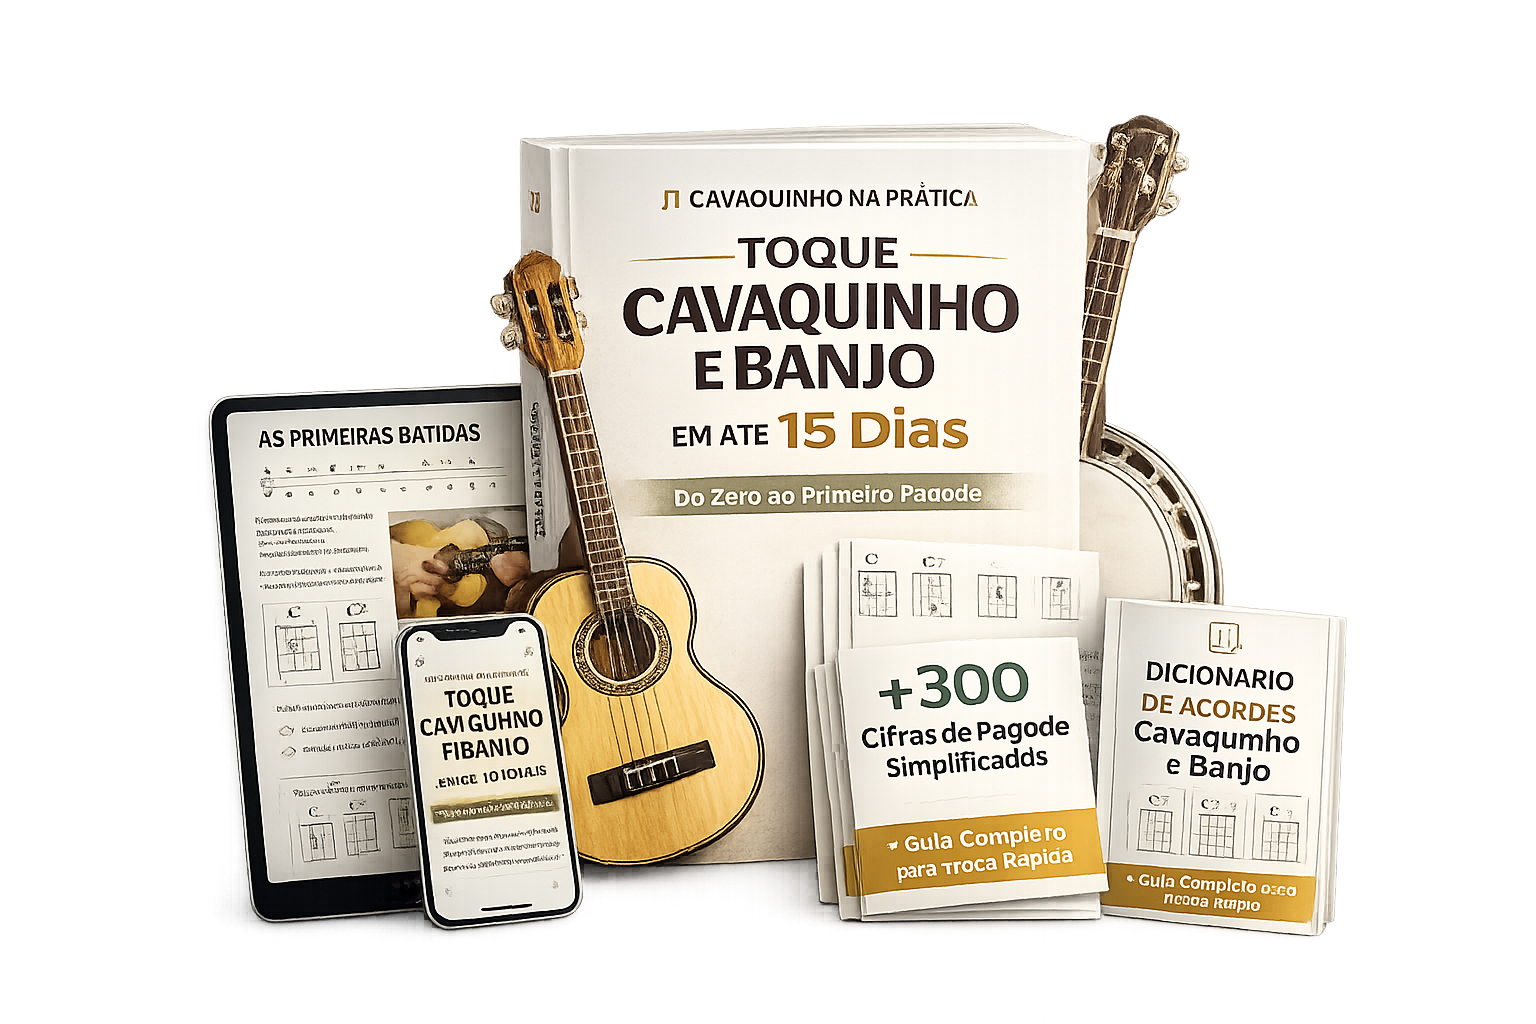
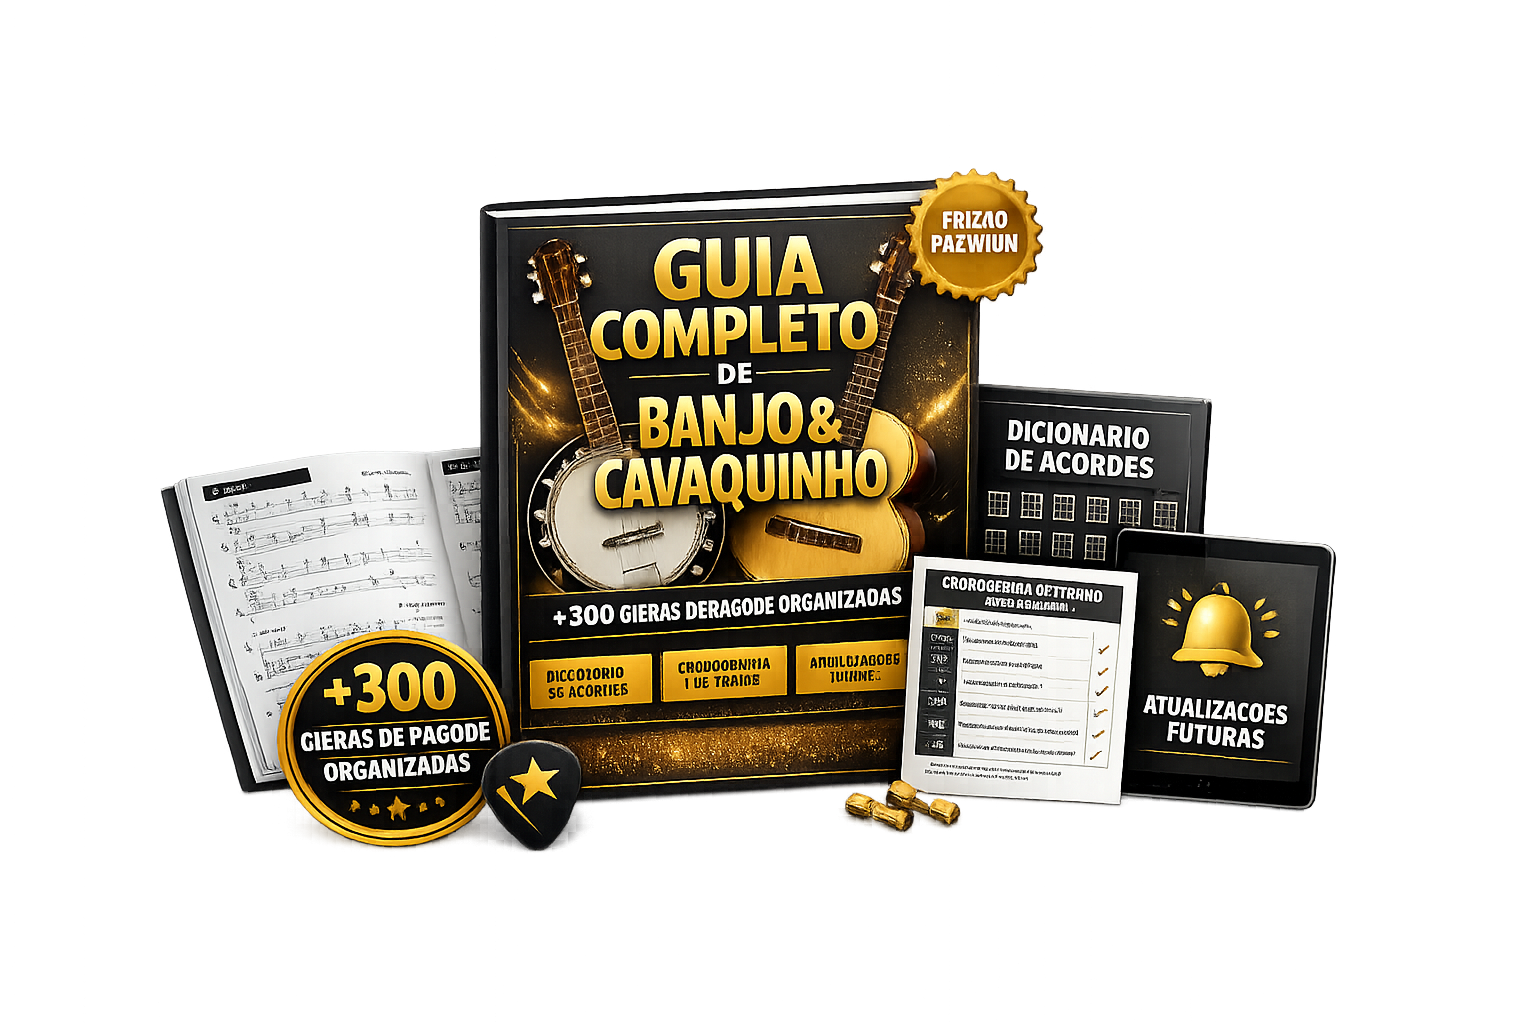
feat: update product mockups
Replace existing promotional mockups with updated visual assets.

diff --git a/src/components/TestimonialsSection.tsx b/src/components/TestimonialsSection.tsx
@@ -1,4 +1,6 @@
-import React from "react";
+import React, { useState } from "react";
+import { ChevronLeft, ChevronRight, MessageSquareQuote } from "lucide-react";
+import { motion, AnimatePresence } from "motion/react";
 
 export default function TestimonialsSection() {
   const testimonialImages = [
@@ -7,35 +9,105 @@ export default function TestimonialsSection() {
     { src: "/depoi3.png", alt: "Depoimento de Aluno 3" },
   ];
 
+  const [activeIndex, setActiveIndex] = useState(0);
+
+  const prevSlide = () => {
+    setActiveIndex((prev) => (prev === 0 ? testimonialImages.length - 1 : prev - 1));
+  };
+
+  const nextSlide = () => {
+    setActiveIndex((prev) => (prev === testimonialImages.length - 1 ? 0 : prev + 1));
+  };
+
   return (
-    <section id="testimonials-section" className="py-20 bg-neutral-50/50">
-      <div className="max-w-6xl mx-auto px-4 sm:px-6">
+    <section id="testimonials-section" className="py-20 bg-neutral-50/50 relative overflow-hidden">
+      {/* Decorative ambient background blur */}
+      <div className="absolute top-1/2 left-1/2 -translate-x-1/2 -translate-y-1/2 w-96 h-96 bg-emerald-500/5 rounded-full blur-3xl pointer-events-none"></div>
+
+      <div className="max-w-4xl mx-auto px-4 sm:px-6 relative z-10">
         
-        {/* Simple crisp header */}
-        <div className="text-center max-w-3xl mx-auto mb-16">
-          <h2 className="text-3xl font-display font-extrabold text-neutral-900 tracking-tight sm:text-4xl">
-            Veja o Que os Alunos Estão Dizendo
+        {/* Crisp design header */}
+        <div className="text-center max-w-2xl mx-auto mb-12 space-y-3">
+          <div className="inline-flex items-center gap-1.5 px-3 py-1 rounded-full bg-emerald-50 border border-emerald-100 text-emerald-700 text-xs font-black uppercase tracking-wider">
+            <MessageSquareQuote className="w-3.5 h-3.5" />
+            <span>Resultados Reais</span>
+          </div>
+          <h2 className="text-3xl font-display font-black text-neutral-900 tracking-tight sm:text-4xl">
+            Veja quem já está tocando!
           </h2>
-          <p className="mt-3 text-neutral-500 text-sm sm:text-base max-w-lg mx-auto leading-relaxed">
-            Resultados de quem realmente colocou o método em prática e aprendeu a jogar ou tocar em poucos dias.
+          <p className="text-neutral-500 text-xs sm:text-sm max-w-md mx-auto leading-relaxed">
+            Veja a evolução dos alunos que saíram do absoluto zero e hoje já dominam o ritmo nas rodas de samba e pagode.
           </p>
         </div>
 
-        {/* Testimonials Grid using provided images */}
-        <div className="grid grid-cols-1 md:grid-cols-3 gap-8">
-          {testimonialImages.map((item, idx) => (
-            <div
-              key={idx}
-              className="bg-white rounded-2xl shadow-md border border-neutral-100 overflow-hidden hover:scale-[1.02] hover:shadow-xl transition-all duration-350 select-none flex items-center justify-center"
-            >
-              <img
-                src={item.src}
-                alt={item.alt}
-                className="w-full h-auto object-contain rounded-2xl"
-                referrerPolicy="no-referrer"
-              />
+        {/* Carousel Container */}
+        <div className="relative max-w-md sm:max-w-lg mx-auto">
+          
+          {/* Main Card viewport */}
+          <div className="bg-white rounded-3xl border border-neutral-200/60 shadow-xl overflow-hidden p-3 sm:p-4 aspect-auto relative">
+            <div className="relative min-h-[350px] sm:min-h-[420px] flex items-center justify-center bg-neutral-50/50 rounded-2xl">
+              <AnimatePresence mode="wait">
+                <motion.div
+                  key={activeIndex}
+                  initial={{ opacity: 0, x: 25 }}
+                  animate={{ opacity: 1, x: 0 }}
+                  exit={{ opacity: 0, x: -25 }}
+                  transition={{ duration: 0.25, ease: "easeInOut" }}
+                  className="w-full h-full flex items-center justify-center p-2 select-none"
+                >
+                  <img
+                    src={testimonialImages[activeIndex].src}
+                    alt={testimonialImages[activeIndex].alt}
+                    className="max-h-[380px] sm:max-h-[450px] w-auto h-auto object-contain rounded-xl"
+                    referrerPolicy="no-referrer"
+                  />
+                </motion.div>
+              </AnimatePresence>
             </div>
-          ))}
+          </div>
+
+          {/* Navigation Controls (Floating Arrows for desktop, responsive and highly accessible targets) */}
+          <div className="absolute top-1/2 -translate-y-1/2 -left-4 sm:-left-16 z-20">
+            <button
+              onClick={prevSlide}
+              aria-label="Depoimento Anterior"
+              className="w-11 h-11 sm:w-12 sm:h-12 rounded-full bg-white border border-neutral-200 shadow-md flex items-center justify-center text-neutral-700 hover:text-emerald-600 hover:border-emerald-300 hover:scale-105 active:scale-95 transition-all duration-200 cursor-pointer focus:outline-none"
+            >
+              <ChevronLeft className="w-5 h-5 sm:w-6 sm:h-6 stroke-[2.5]" />
+            </button>
+          </div>
+
+          <div className="absolute top-1/2 -translate-y-1/2 -right-4 sm:-right-16 z-20">
+            <button
+              onClick={nextSlide}
+              aria-label="Próximo Depoimento"
+              className="w-11 h-11 sm:w-12 sm:h-12 rounded-full bg-white border border-neutral-200 shadow-md flex items-center justify-center text-neutral-700 hover:text-emerald-600 hover:border-emerald-300 hover:scale-105 active:scale-95 transition-all duration-200 cursor-pointer focus:outline-none"
+            >
+              <ChevronRight className="w-5 h-5 sm:w-6 sm:h-6 stroke-[2.5]" />
+            </button>
+          </div>
+
+        </div>
+
+        {/* Dot Indicators & Slide Count */}
+        <div className="flex flex-col items-center justify-center gap-3 mt-8 select-none">
+          <div className="flex items-center gap-2">
+            {testimonialImages.map((_, idx) => (
+              <button
+                key={idx}
+                onClick={() => setActiveIndex(idx)}
+                aria-label={`Ir para depoimento ${idx + 1}`}
+                className={`transition-all duration-300 rounded-full cursor-pointer focus:outline-none ${
+                  activeIndex === idx
+                    ? "w-6 h-2 bg-emerald-500"
+                    : "w-2 h-2 bg-neutral-300 hover:bg-neutral-400"
+                }`}
+              />
+            ))}
+          </div>
+          <span className="text-[11px] font-bold text-neutral-400 uppercase tracking-widest">
+            Depoimento {activeIndex + 1} de {testimonialImages.length}
+          </span>
         </div>
 
       </div>

diff --git a/src/components/OfferSection.tsx b/src/components/OfferSection.tsx
@@ -1,6 +1,10 @@
 import React from "react";
 import { Check, ShieldCheck, Lock, Zap } from "lucide-react";
 
+// Import premium bundle mockup automatically compiled by Vite
+// @ts-ignore
+import bundleMockup from "../assets/images/bundle_mockup_1781461284286.jpg";
+
 export default function OfferSection() {
   const items = [
     { isBonus: false, text: "Guia Completo de Cavaquinho" },
@@ -12,43 +16,53 @@ export default function OfferSection() {
   ];
 
   return (
-    <section id="offer-section" className="py-16 bg-[#FAFAFA] px-4 relative overflow-hidden border-t border-neutral-150/60">
+    <section id="offer-section" className="py-12 bg-[#FAFAFA] px-4 relative overflow-hidden border-t border-neutral-150/60 select-none">
       
       {/* Subtle decorative background glow */}
       <div className="absolute top-1/2 left-1/2 -translate-x-1/2 -translate-y-1/2 w-80 h-80 bg-emerald-500/5 rounded-full blur-3xl pointer-events-none"></div>
 
-      <div className="max-w-lg mx-auto relative z-10">
+      <div className="max-w-md mx-auto relative z-10">
         
         {/* SINGLE INTEGRATED CONTAINER */}
-        <div className="bg-white rounded-3xl border border-neutral-200 shadow-xl overflow-hidden p-6 sm:p-8 space-y-6">
+        <div className="bg-white rounded-3xl border border-neutral-200 shadow-xl overflow-hidden p-5 sm:p-6 space-y-4">
           
           {/* TITLE HEADER */}
-          <div className="text-center pb-1 border-b border-neutral-100 select-none">
-            <span className="text-xs font-black text-emerald-700 bg-emerald-50 px-3 py-1.5 rounded-full uppercase tracking-wider mb-3 inline-block">
-              Acesso Vitalício
-            </span>
-            <h2 className="text-xl sm:text-2xl font-display font-black text-neutral-900 tracking-tight flex items-center justify-center gap-2">
+          <div className="text-center pb-1">
+            <h2 className="text-lg sm:text-xl font-display font-black text-neutral-900 tracking-tight flex items-center justify-center gap-2">
               <span>🎁</span> VOCÊ RECEBERÁ HOJE:
             </h2>
           </div>
 
+          {/* LARGE MAIN PREMIUM BUNDLE SHOWCASE */}
+          <div className="relative group/offerMockup w-full flex items-center justify-center py-1">
+            <div className="absolute -inset-1 bg-gradient-to-r from-emerald-500/10 to-teal-500/5 rounded-2xl blur opacity-75 group-hover/offerMockup:opacity-100 transition-all duration-300"></div>
+            <div className="relative bg-white border border-neutral-100 shadow-sm rounded-2xl overflow-hidden p-1.5 transition-all duration-350 max-w-[240px]">
+              <img
+                src={bundleMockup}
+                alt="Pacote Completo Cavaquinho e Banjo"
+                className="w-full object-contain mix-blend-multiply rounded-xl transition-transform hover:scale-[1.02]"
+                referrerPolicy="no-referrer"
+              />
+            </div>
+          </div>
+
           {/* COMPACT UNIFIED CHECKLIST */}
-          <div className="bg-[#FAFAFA] border border-neutral-150 rounded-2xl p-4 sm:p-5 space-y-3.5">
+          <div className="bg-[#FAFAFA] border border-neutral-150 rounded-2xl p-3.5 space-y-3">
             {items.map((item, idx) => (
-              <div key={idx} className="flex items-start gap-3">
+              <div key={idx} className="flex items-start gap-2.5">
                 <div className="flex-shrink-0 mt-0.5">
                   {item.isBonus ? (
                     <span className="text-sm select-none">🎁</span>
                   ) : (
-                    <div className="w-5 h-5 rounded-full bg-emerald-100 flex items-center justify-center text-[#22C55E]">
-                      <Check className="w-3.5 h-3.5 stroke-[3]" />
+                    <div className="w-4.5 h-4.5 rounded-full bg-emerald-100 flex items-center justify-center text-[#22C55E]">
+                      <Check className="w-3 h-3 stroke-[3]" />
                     </div>
                   )}
                 </div>
                 <div className="flex flex-wrap items-center gap-1.5 text-xs sm:text-sm text-neutral-800 font-extrabold leading-tight">
                   <span className="tracking-tight">{item.text}</span>
                   {item.isBonus && (
-                    <span className="inline-flex items-center px-2 py-0.5 rounded-md bg-emerald-50 border border-emerald-200 text-emerald-700 text-[9px] font-black uppercase tracking-wider select-none">
+                    <span className="inline-flex items-center px-1.5 py-0.5 rounded-md bg-emerald-50 border border-emerald-200 text-emerald-700 text-[8px] font-black uppercase tracking-wider select-none">
                       BÔNUS
                     </span>
                   )}
@@ -57,57 +71,53 @@ export default function OfferSection() {
             ))}
           </div>
 
-          {/* CAIXA DE VALOR DESTACADA */}
-          <div className="p-5 bg-emerald-50/30 border-2 border-emerald-500/25 rounded-2xl text-center space-y-2 relative overflow-hidden select-none">
-            <div className="absolute top-0 right-0 w-16 h-16 bg-emerald-500/10 rounded-full blur-xl pointer-events-none"></div>
+          {/* CAIXA DE VALOR DESTACADA COMPACTA */}
+          <div className="p-4 bg-gradient-to-br from-[#FAFAFA] to-white border border-emerald-500/20 rounded-2xl text-center space-y-1.5 relative overflow-hidden shadow-sm">
+            <div className="absolute top-0 right-0 w-16 h-16 bg-emerald-500/5 rounded-full blur-xl pointer-events-none"></div>
             
-            <p className="text-xs sm:text-sm font-extrabold text-emerald-800 flex items-center justify-center gap-1.5 uppercase tracking-wider">
-              <span>💰</span> Valor Total do Pacote
+            <p className="text-xs font-extrabold text-neutral-500 flex items-center justify-center gap-1">
+              💰 Valor Total: <span className="line-through text-neutral-400">R$ 97,00</span>
             </p>
 
-            <div className="text-sm text-neutral-400 font-semibold">
-              De: <span className="line-through">R$ 97,00</span>
-            </div>
-
             <div className="space-y-0.5">
-              <p className="text-[10px] text-neutral-500 font-black uppercase tracking-wider">Por apenas:</p>
-              <div className="flex items-baseline justify-center gap-1">
-                <span className="text-xl font-extrabold text-[#22C55E]">R$</span>
-                <span className="text-4xl sm:text-5.5xl font-display font-black text-[#22C55E] tracking-tight">27,00</span>
+              <p className="text-[10px] text-emerald-700 font-black uppercase tracking-widest leading-none">por apenas</p>
+              <div className="flex items-baseline justify-center gap-0.5">
+                <span className="text-lg font-extrabold text-[#22C55E] self-start mt-0.5">R$</span>
+                <span className="text-4xl font-display font-black text-neutral-900 tracking-tight">27,00</span>
               </div>
             </div>
 
-            <div className="text-[11px] font-black text-emerald-700 bg-emerald-100/60 inline-block px-3 py-1 rounded-full uppercase tracking-wider">
-              🔥 Você economiza R$ 70,00 hoje
-            </div>
-          </div>
-
-          {/* ELEMENTOS DE CONFIANÇA */}
-          <div className="grid grid-cols-3 gap-1 pt-1.5 text-center text-[10px] font-extrabold text-neutral-600 uppercase tracking-widest border-t border-b border-neutral-100 py-3.5">
-            <div className="flex flex-col items-center gap-1 justify-center">
-              <Lock className="w-4 h-4 text-[#22C55E]" />
-              <span>Compra 100% Segura</span>
-            </div>
-            <div className="flex flex-col items-center gap-1 justify-center border-l border-r border-neutral-150">
-              <Zap className="w-4 h-4 text-[#22C55E] fill-current" />
-              <span>Acesso Imediato</span>
-            </div>
-            <div className="flex flex-col items-center gap-1 justify-center">
-              <ShieldCheck className="w-4 h-4 text-[#22C55E]" />
-              <span>Garantia de 7 Dias</span>
+            <div className="text-[10px] font-black text-emerald-750 bg-emerald-50 border border-emerald-100 inline-block px-2.5 py-1 rounded-md uppercase tracking-wider">
+              🔥 Economize R$ 70,00 Hoje
             </div>
           </div>
 
           {/* BOTÃO CTA PRINCIPAL */}
-          <div className="space-y-3">
+          <div className="space-y-3 pt-1">
             <a
               href="https://pay.wiapy.com/3YueGcEdrf"
-              className="w-full py-5 px-6 bg-emerald-500 hover:bg-emerald-600 text-white font-black rounded-2xl text-center shadow-xl shadow-emerald-500/20 hover:shadow-emerald-500/30 hover:scale-[1.025] active:scale-[0.985] transition-all duration-250 cursor-pointer text-sm sm:text-base uppercase tracking-wider block"
+              className="w-full py-4 px-4 bg-emerald-500 hover:bg-emerald-600 text-white font-black rounded-2xl text-center shadow-lg shadow-emerald-500/20 hover:shadow-emerald-500/30 hover:scale-[1.02] active:scale-[0.985] transition-all duration-200 cursor-pointer text-xs sm:text-sm uppercase tracking-wider block leading-tight border border-emerald-400"
             >
-              🚀 GARANTIR MEU ACESSO AGORA
+              🚀 QUERO APRENDER CAVAQUINHO E BANJO AGORA
             </a>
+
+            {/* ELEMENTOS DE CONFIANÇA INTEGRADOS DIRETAMENTE (COMPACT) */}
+            <div className="grid grid-cols-3 gap-1 pt-1.5 text-center text-[9px] font-extrabold text-neutral-500 uppercase tracking-wider border-t border-b border-neutral-100 py-2.5">
+              <div className="flex flex-col items-center gap-1 justify-center">
+                <Lock className="w-3.5 h-3.5 text-[#22C55E]" />
+                <span className="leading-tight">Compra 100% Segura</span>
+              </div>
+              <div className="flex flex-col items-center gap-1 justify-center border-l border-r border-neutral-150">
+                <Zap className="w-3.5 h-3.5 text-[#22C55E] fill-current" />
+                <span className="leading-tight">Acesso Imediato</span>
+              </div>
+              <div className="flex flex-col items-center gap-1 justify-center">
+                <ShieldCheck className="w-3.5 h-3.5 text-[#22C55E]" />
+                <span className="leading-tight">Garantia de 7 Dias</span>
+              </div>
+            </div>
             
-            <p className="text-[10px] text-neutral-400 text-center font-bold tracking-wide">
+            <p className="text-[9px] text-neutral-400 text-center font-bold tracking-wide">
               Pagamento único • Sem mensalidades ou taxas ocultas • Segurança criptografada
             </p>
           </div>

diff --git a/src/components/OQueVaiReceberSection.tsx b/src/components/OQueVaiReceberSection.tsx
@@ -6,45 +6,45 @@ export default function OQueVaiReceberSection() {
     {
       title: "Guia Completo de Cavaquinho",
       description: "Do absoluto zero às primeiras soltas de samba, com posturas corretas e trocas práticas.",
-      icon: <Music className="w-5 h-5 text-gold shrink-0 mt-0.5" />,
+      icon: <Music className="w-5 h-5 text-emerald-600 shrink-0" />,
     },
     {
       title: "Guia Completo de Banjo",
       description: "Aprenda a mecânica correta para obter o som metálico e marcante clássico do pagode.",
-      icon: <Disc className="w-5 h-5 text-gold shrink-0 mt-0.5" />,
+      icon: <Disc className="w-5 h-5 text-emerald-600 shrink-0" />,
     },
     {
       title: "+300 Cifras de Pagode Organizadas",
       description: "As músicas mais amadas tocadas nas rodas, com acordes simplificados para iniciantes.",
-      icon: <Layers className="w-5 h-5 text-gold shrink-0 mt-0.5" />,
+      icon: <Layers className="w-5 h-5 text-emerald-600 shrink-0" />,
       isBonus: true,
     },
     {
       title: "Dicionário de Acordes",
       description: "Consulte rapidamente todas as posições essenciais em um design limpo e ilustrado.",
-      icon: <BookOpen className="w-5 h-5 text-gold shrink-0 mt-0.5" />,
+      icon: <BookOpen className="w-5 h-5 text-emerald-600 shrink-0" />,
       isBonus: true,
     },
     {
       title: "Cronograma de Treino para Iniciantes",
       description: "Um passo a passo diário detalhado para você saber exatamente o que treinar a cada dia.",
-      icon: <CheckCircle className="w-5 h-5 text-gold shrink-0 mt-0.5" />,
+      icon: <CheckCircle className="w-5 h-5 text-emerald-600 shrink-0" />,
       isBonus: true,
     },
     {
       title: "Atualizações Futuras",
       description: "Tenha acesso vitalício a toda e qualquer melhoria ou material complementar futuro.",
-      icon: <Star className="w-5 h-5 text-gold shrink-0 mt-0.5" />,
+      icon: <Star className="w-5 h-5 text-emerald-600 shrink-0" />,
       isBonus: true,
     },
   ];
 
   return (
-    <section id="receive-section" className="py-20 bg-white px-4">
-      <div className="max-w-4xl mx-auto">
+    <section id="receive-section" className="py-16 bg-neutral-50/40 px-4 border-t border-b border-neutral-100 relative overflow-hidden">
+      <div className="max-w-5xl mx-auto space-y-12">
         
         {/* Simple Section Header */}
-        <div className="text-center max-w-3xl mx-auto mb-16 space-y-3">
+        <div className="text-center max-w-3xl mx-auto space-y-3">
           <h2 className="text-3xl font-display font-extrabold text-neutral-900 tracking-tight">
             O Que Você Vai Receber
           </h2>
@@ -56,22 +56,29 @@ export default function OQueVaiReceberSection() {
           </div>
         </div>
 
-        {/* Minimal list layout, 2 columns on desktop - extremely elegant */}
-        <div className="grid grid-cols-1 md:grid-cols-2 gap-x-12 gap-y-8 select-none">
+        {/* List of items styled as a clean/compact 2-column grid layout */}
+        <div className="grid grid-cols-1 md:grid-cols-2 gap-4 sm:gap-6 select-none">
           {items.map((item, idx) => (
-            <div key={idx} className="relative flex gap-4 items-start pb-6 border-b border-neutral-100/60 last:border-0 md:border-b group">
-              {item.icon}
-              <div className="space-y-1 pr-16">
-                <h3 className="text-base font-bold text-neutral-900">
+            <div
+              key={idx}
+              className="relative bg-white border border-neutral-200/50 rounded-2xl p-5 sm:p-6 flex gap-4 items-start shadow-sm hover:shadow-md hover:border-emerald-250 transition-all duration-200 group"
+            >
+              <div className="p-2.5 bg-neutral-50 border border-neutral-100 rounded-xl text-emerald-800 shrink-0">
+                {item.icon}
+              </div>
+              <div className="space-y-1 text-left w-full pr-16 animate-none">
+                <h3 className="text-base font-bold text-neutral-900 leading-tight">
                   {item.title}
                 </h3>
-                <p className="text-xs sm:text-sm text-neutral-500 leading-relaxed">
+                <p className="text-neutral-500 text-xs sm:text-sm leading-relaxed">
                   {item.description}
                 </p>
               </div>
+
+              {/* Absolute Bonus Badge inside the card */}
               {item.isBonus && (
-                <span className="absolute top-0 right-0 inline-flex items-center gap-0.5 px-2 py-0.5 rounded-full bg-emerald-50 border border-emerald-200 text-emerald-700 text-[9px] font-black uppercase tracking-wider shadow-sm transition-transform duration-200 ease-out group-hover:scale-110 group-hover:bg-emerald-100/70">
-                  🎁 BÔNUS
+                <span className="absolute top-5 right-5 inline-flex items-center gap-0.5 px-2.5 py-0.5 rounded-full bg-emerald-50 border border-emerald-250 text-emerald-700 text-[9px] font-black uppercase tracking-wider shadow-sm select-none transition-transform duration-200 group-hover:scale-105">
+                  BÔNUS
                 </span>
               )}
             </div>